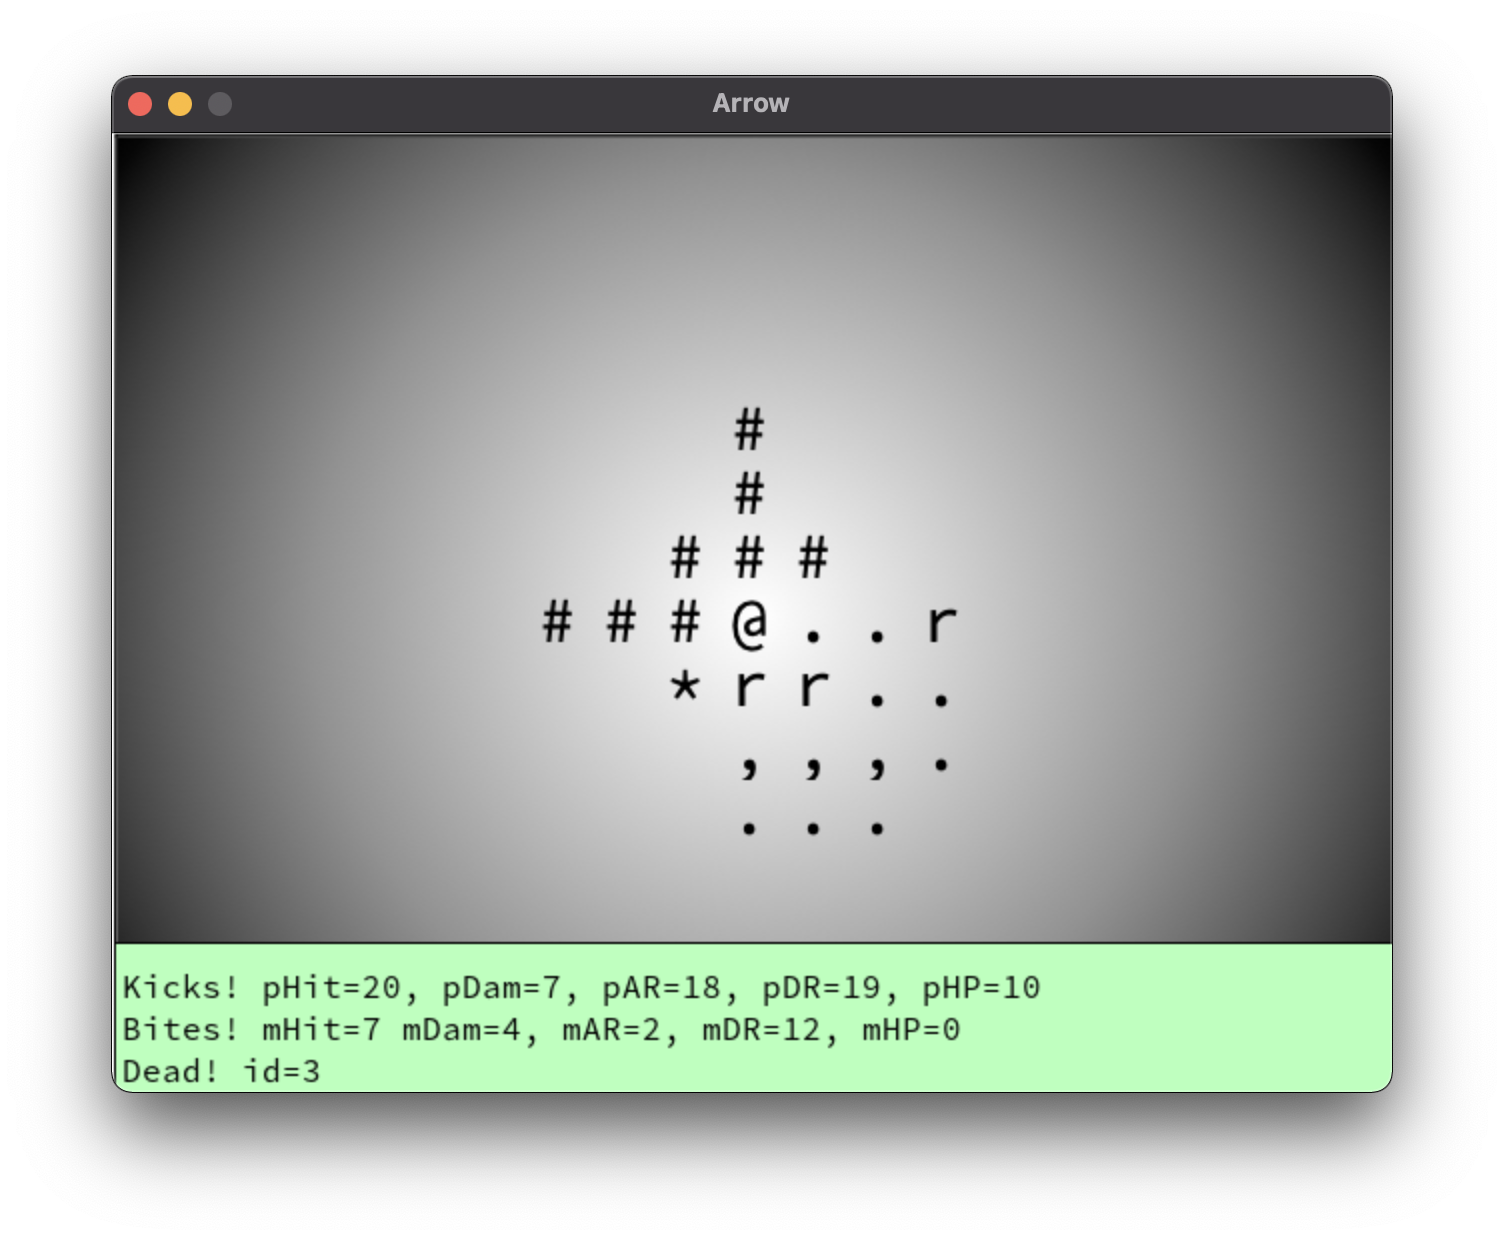
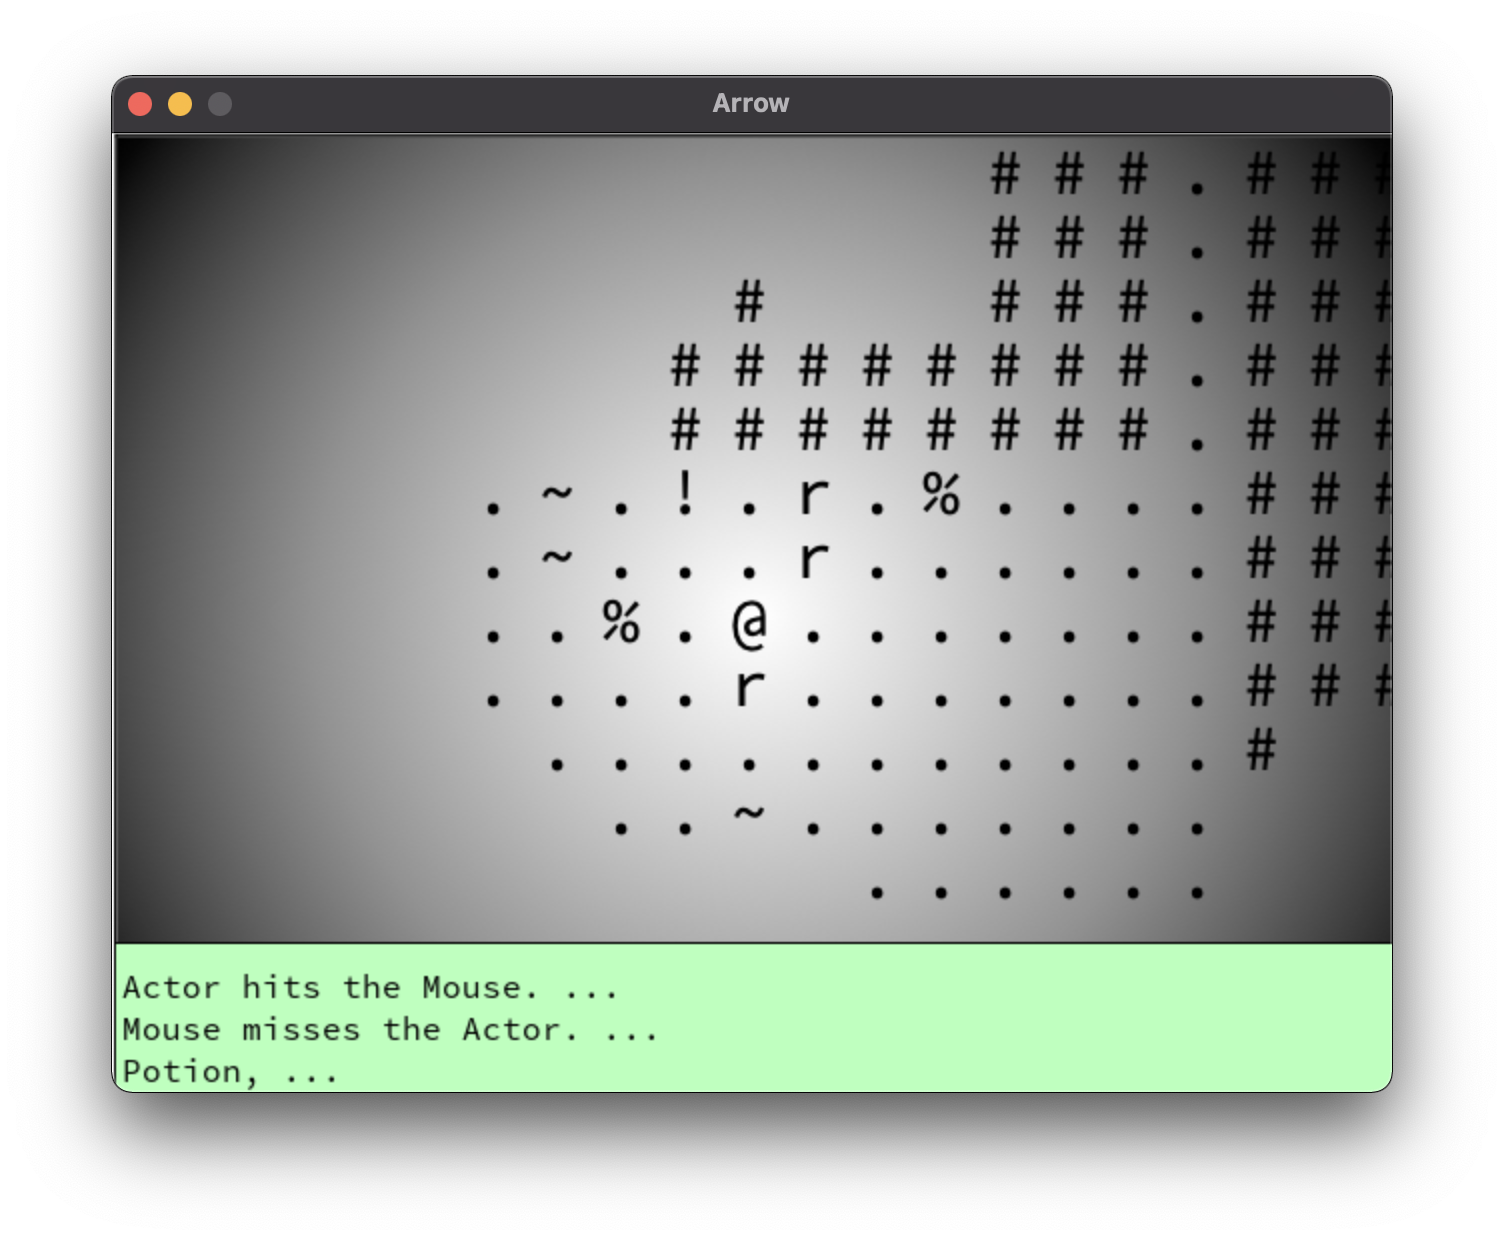
0.2.0.0

diff --git a/README.md b/README.md
@@ -13,6 +13,7 @@ Step 6 of the 15 Steps...
 ![Hero.png](images/Hero.png)
 
 1. `Game.AI`
+1. `Game.Inventory`
 1. `rogueDungeon`
 1. `Game.Combat` for exciting battles
 1. 3 Blind Mice
